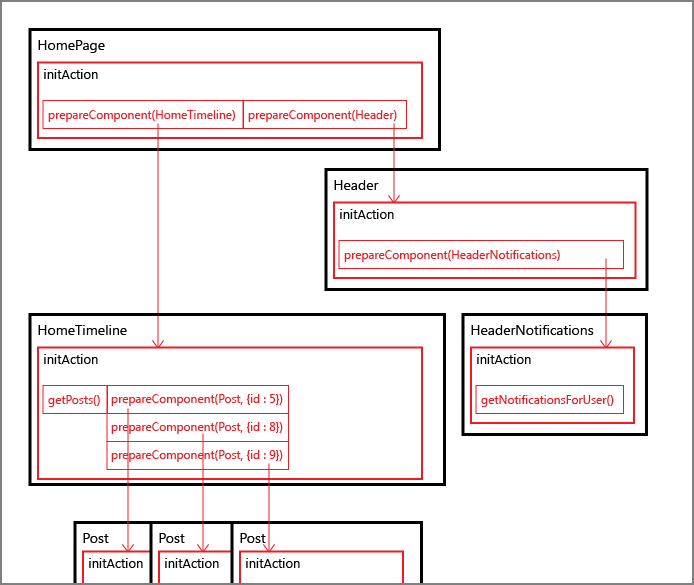
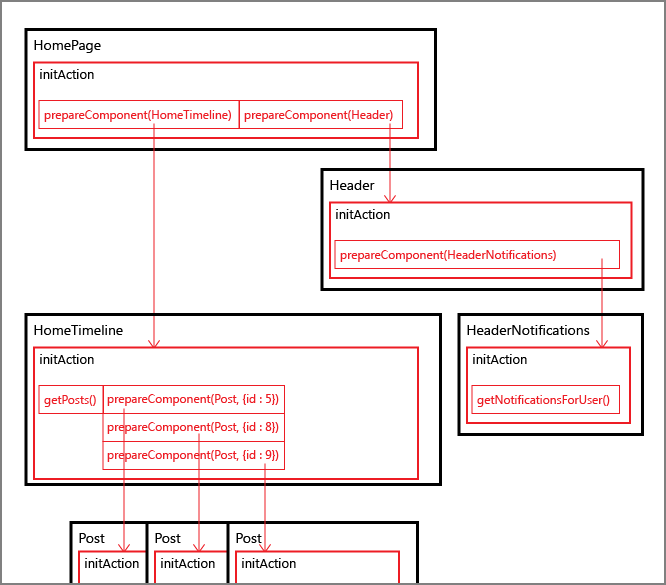
Reduce width of example image #4
Width is a bit too large making it scale on npmjs.com

diff --git a/README.md b/README.md
@@ -50,7 +50,7 @@ We use `withInitAction()` to add the following initialization to our components:
  - `HomeTimeline` loads a list of posts. It now has a couple of post ids and calls `prepareComponent(Post, { id: postId })` for each post
  - `Post` loads some detail data to display the itself
 
-![Example prepare tree](https://github.com/flut1/react-redux-component-init/raw/develop/docs/assets/example-prepare-tree.png?v=2)
+![Example prepare tree](https://github.com/flut1/react-redux-component-init/raw/develop/docs/assets/example-prepare-tree.png?v=3)
 
 _NOTE: In this example, the list of posts are loaded separately from the post detail data. In another application this might be a single call_
 
